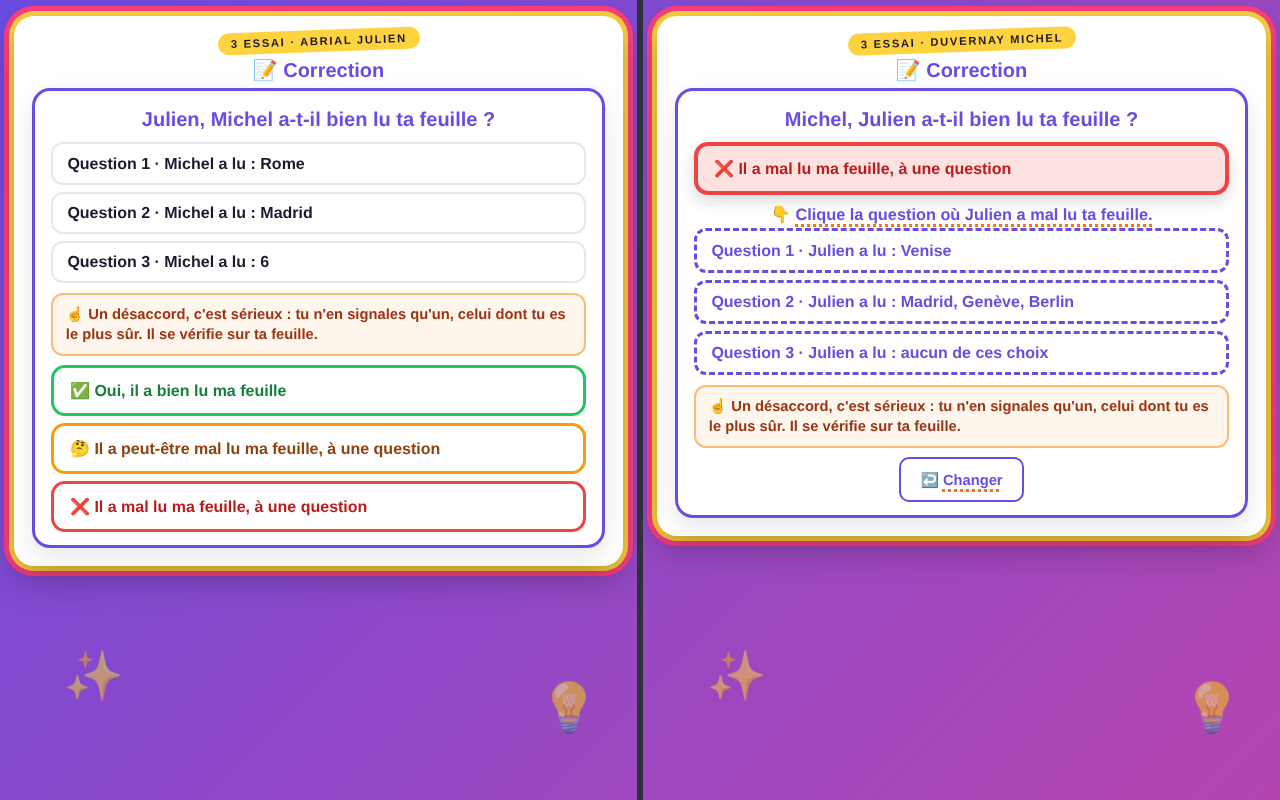
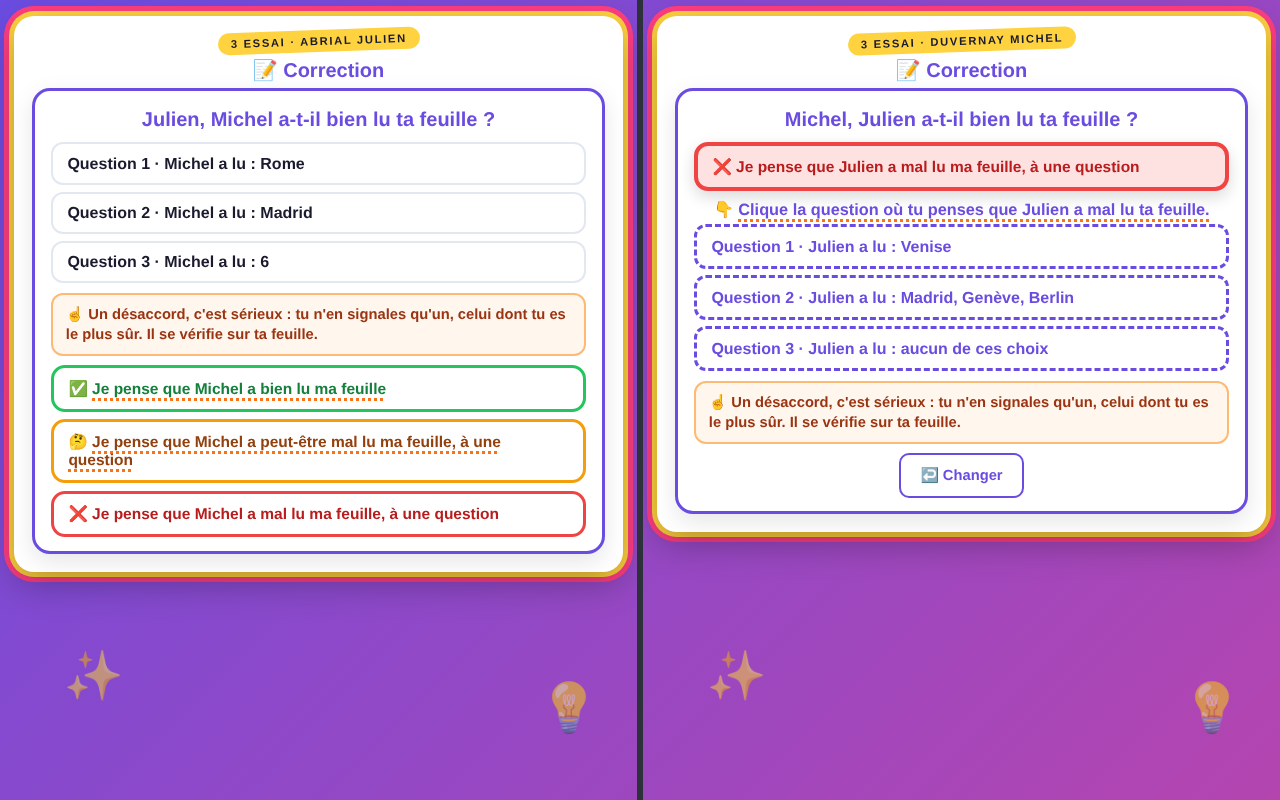
C12 tour 614 - cadrage QCM : plus de « Envoyer », co-evaluation en suppositions, alerte en faits, captures 610-6 a 610-9 (526-531)
Claude-Session: https://claude.ai/code/session_017qdZF5NLwz2zUz2W2TVAYN

Changed region(s): [[0.5, 0.1875, 1.0, 0.6875], [0.0, 0.4688, 0.5, 0.75]]

diff --git a/MANDATS/MAQUETTE-QCM-FLUX/maquette/maquette610.js b/MANDATS/MAQUETTE-QCM-FLUX/maquette/maquette610.js
@@ -101,37 +101,44 @@ function EcrAttest2AB(e, coche){
 // la feuille de Michel dit Rome, Julien a lu Venise (le clic de Michel sur la tablette, qu'il n'a jamais vu).
 var LU = {J:[[2],[0],[0]], M:[[3],[0,1,2],"aucun"]};
 function luTexte(qi, x){ var q = EV.questions[qi]; return x === "aucun" ? "aucun de ces choix" : x.map(function(i){ return q.choix[i]; }).join(", "); }
-var BTN_CO = [
-  {k:"ok", em:"✅", t:"Oui, il a bien lu ma feuille"},
-  {k:"peut", em:"🤔", t:"Il a peut-être mal lu ma feuille, à une question"},
-  {k:"mal", em:"❌", t:"Il a mal lu ma feuille, à une question"}
-];
-// etape : "choix" (rien cliqué) | "question" (❌ ou 🤔 cliqué : il clique la question) | "une" (la question cliquée : les autres ont disparu) | "envoye"
+// Tour 614 : en suppositions, à la première personne, avec le prénom du voisin ; plus de « Envoyer » :
+// le choix est enregistré dès le clic, comme partout dans l'app, et se change jusqu'au bilan.
+function txtCo(k, v, qi){
+  if(k === "ok") return "Je pense que " + v.prenom + " a bien lu ma feuille";
+  var peut = k === "peut" ? "peut-être " : "";
+  return "Je pense que " + v.prenom + " a " + peut + "mal lu ma feuille" + (qi == null ? ", à une question" : " à la question " + (qi+1));
+}
+var EM_CO = {ok:"✅", peut:"🤔", mal:"❌"};
+function BtnCo(k, v, on, qi){
+  var t = txtCo(k, v, qi);
+  return h("button", {key:k, className:"co-btn " + k + (on ? " on" : "")}, EM_CO[k] + " ", k === "mal" ? t : Pz(t));
+}
+var REGLE_CO = "Un désaccord, c'est sérieux : tu n'en signales qu'un, celui dont tu es le plus sûr. Il se vérifie sur ta feuille.";
+var ENREG = "✅ Réponse enregistrée — tu peux encore la changer";
+// etape : "choix" (rien cliqué) | "question" (❌ ou 🤔 cliqué : il clique la question) | "une" (question cliquée : les autres ont disparu) | "okfait" (✅ cliqué)
 function EcrCoeval(e, etape, k, qChoisie){
-  var v = autreDe(e), b = k && BTN_CO.filter(function(x){ return x.k === k; })[0];
+  var v = autreDe(e);
   var lignes = EV.questions.map(function(q, qi){ return {qi:qi, txt:"Question " + (qi+1) + " · " + v.prenom + " a lu : " + luTexte(qi, LU[e.cle][qi])}; });
-  if(etape === "envoye"){
-    return Page(badgeDe(e), "📝 Correction", h(F, null,
-      h("div", {className:"co-envoye " + k}, b.em + " ", Pz(k === "ok" ? "C'est envoyé : " + v.prenom + " a bien lu ta feuille." : "C'est envoyé : ton désaccord porte sur la question " + (qChoisie+1) + ".")),
-      h("div", {className:"etat-attente"}, "⏳ ", Pz("Attends ton bilan..."))));
-  }
   var zone = [];
   zone.push(h("div", {key:"t", className:"decl-titre co-titre"}, e.prenom + ", " + v.prenom + " a-t-" + il(v) + " bien lu ta feuille ?"));
   if(etape === "une"){
-    // le bouton choisi, puis la seule question, les autres ont disparu
-    zone.push(h("button", {key:"b", className:"co-btn " + k + " on"}, b.em + " " + b.t.replace("il a", il(v) + " a").replace("Il a", (il(v) === "elle" ? "Elle" : "Il") + " a")));
+    zone.push(h("div", {key:"b"}, BtnCo(k, v, true, qChoisie)));
     zone.push(h("div", {key:"l", className:"co-liste"}, h("div", {className:"co-l choisie"}, lignes[qChoisie].txt)));
-    zone.push(h("div", {key:"seule", className:"co-seule"}, "☝ ", Pz("C'est ta seule question de désaccord.")));
-    zone.push(h("div", {key:"r", className:"co-regle"}, "Un désaccord, c'est sérieux : tu n'en signales qu'un, celui dont tu es le plus sûr. Il se vérifie sur ta feuille."));
-    zone.push(h("div", {key:"a", className:"co-actions"}, h("button", {className:"btn btn-ghost"}, "↩ ", Pz("Changer")), h("button", {className:"btn btn-primary"}, "📨 ", Pz("Envoyer"))));
+    zone.push(h("div", {key:"seule", className:"co-seule"}, "☝ C'est ta seule question de désaccord."));
+    zone.push(h("div", {key:"r", className:"co-regle"}, REGLE_CO));
+    zone.push(h("div", {key:"f", className:"eleve-feedback valide"}, ENREG));
+    zone.push(h("div", {key:"a", className:"co-actions"}, h("button", {className:"btn btn-ghost"}, "↩ Changer")));
+    zone.push(h("div", {key:"w", className:"co-attente"}, "⏳ Attends ton bilan..."));
   } else {
     var cliquable = etape === "question";
-    if(cliquable) zone.push(h("button", {key:"b", className:"co-btn " + k + " on"}, b.em + " " + b.t));
-    if(cliquable) zone.push(h("div", {key:"p", className:"co-prompt"}, "👇 ", Pz("Clique la question où " + v.prenom + " a " + (k === "peut" ? "peut-être " : "") + "mal lu ta feuille.")));
+    if(cliquable) zone.push(h("div", {key:"b"}, BtnCo(k, v, true)));
+    if(cliquable) zone.push(h("div", {key:"p", className:"co-prompt"}, "👇 ", Pz("Clique la question où tu penses que " + v.prenom + " a " + (k === "peut" ? "peut-être " : "") + "mal lu ta feuille.")));
     zone.push(h("div", {key:"l", className:"co-liste" + (cliquable ? " cliquable" : "")}, lignes.map(function(l){ return h("div", {key:l.qi, className:"co-l"}, l.txt); })));
-    zone.push(h("div", {key:"r", className:"co-regle"}, "☝ Un désaccord, c'est sérieux : tu n'en signales qu'un, celui dont tu es le plus sûr. Il se vérifie sur ta feuille."));
-    if(!cliquable) zone.push(h("div", {key:"bs", className:"co-btns"}, BTN_CO.map(function(x){ return h("button", {key:x.k, className:"co-btn " + x.k}, x.em + " " + x.t); })));
-    if(cliquable) zone.push(h("div", {key:"a", className:"co-actions"}, h("button", {className:"btn btn-ghost"}, "↩ ", Pz("Changer"))));
+    zone.push(h("div", {key:"r", className:"co-regle"}, "☝ " + REGLE_CO));
+    if(!cliquable) zone.push(h("div", {key:"bs", className:"co-btns"}, ["ok", "peut", "mal"].map(function(x){ return BtnCo(x, v, etape === "okfait" && x === "ok"); })));
+    if(etape === "okfait") zone.push(h("div", {key:"f", className:"eleve-feedback valide"}, ENREG));
+    if(etape === "okfait") zone.push(h("div", {key:"w", className:"co-attente"}, "⏳ Attends ton bilan..."));
+    if(cliquable) zone.push(h("div", {key:"a", className:"co-actions"}, h("button", {className:"btn btn-ghost"}, "↩ Changer")));
   }
   return Page(badgeDe(e), "📝 Correction", h("div", {className:"eleve-q-zone"}, zone));
 }
@@ -147,22 +154,22 @@ function etatCo(p){
   return {cls:"m-coq", st:"🤔 peut-être Q" + c.slice(4), flag:"à relire ce soir"};
 }
 var LIRE_CO = [
-  ["PERRAUD Jade", "Q2 : 🤔 Enzo a peut-être mal lu sa feuille"],
-  ["MAILLARD Noah", "Q3 : 🤔 Emma a peut-être mal lu sa feuille"],
+  ["PERRAUD Jade", "Q2 : 🤔 pense qu'Enzo a peut-être mal lu sa feuille"],
+  ["MAILLARD Noah", "Q3 : 🤔 pense qu'Emma a peut-être mal lu sa feuille"],
   ["DUVERNAY Michel", "Q3 : aucun de ces choix"],
   ["QUINTON Enzo", "Q1 : aucun de ces choix"],
-  ["TESSIER Anna", "Q2 : a dit « Oui », Rayan a lu autre chose que son clic"],
-  ["CARRÉ Tom", "Q1 : n'a rien dit à la fin de son temps"]
+  ["TESSIER Anna", "Q2 : a dit que sa feuille disait son clic, Madrid ; Rayan y a lu Madrid et Genève"],
+  ["CARRÉ Tom", "Q1 : n'a pas dit si sa feuille disait son clic"]
 ];
 var ATT_CO = ["CARRÉ Tom", "OLLIVIER Sacha", "VALLÉE Rayan", "ZELLER Lou"];
 function AlerteCo(tel){
   var q = EV.questions[0];
   var corps = [
-    h("div", {key:"t", className:"al-t"}, "❌ DUVERNAY Michel : ABRIAL Julien a mal lu sa feuille à la question 1"),
+    h("div", {key:"t", className:"al-t"}, "❌ DUVERNAY Michel pense qu'ABRIAL Julien a mal lu sa feuille à la question 1"),
     h("div", {key:"q", className:"al-l"}, "Q1 · " + q.enonce + " — bonne réponse : Rome"),
-    h("div", {key:"b", className:"al-l"}, "Pendant la question, Michel a cliqué ", h("strong", null, "Venise"), " et a dit « Non, autre chose »."),
-    h("div", {key:"a", className:"al-l"}, "À la correction, Julien a lu sur sa feuille : ", h("strong", null, "Venise"), "."),
-    h("div", {key:"x", className:"al-l al-b"}, "⚠ Ça ne colle pas : Michel avait dit que sa feuille ne disait pas son clic."),
+    h("div", {key:"b", className:"al-l"}, "Pendant la question, Michel a cliqué ", h("strong", null, "Venise"), ", puis il a dit que sa feuille ne disait pas Venise."),
+    h("div", {key:"a", className:"al-l"}, "À la correction, Julien a lu ", h("strong", null, "Venise"), " sur la feuille de Michel."),
+    h("div", {key:"x", className:"al-l al-b"}, "⚠ Les deux ne peuvent pas être vrais : la feuille de Michel tranche."),
     h("div", {key:"c", className:"al-l al-c"}, "Appelle-les à la fin de l'heure, la feuille de Michel en main.")
   ];
   if(tel) return h("div", {className:"tel-alerte"}, corps,
@@ -176,26 +183,26 @@ function AlerteCo(tel){
       h("div", {className:"al-auto"},
         h("button", {className:"btn btn-ghost btn-sm"}, "⛔ Retirer le point d'autonomie — Michel"),
         h("button", {className:"btn btn-ghost btn-sm"}, "⛔ Retirer le point d'autonomie — Julien")),
-      h("div", {className:"al-note"}, "« Donner raison à Michel » : tu cliques ce que dit sa feuille, comme le soir (capture 43), et sa note se recalcule. « Donner raison à Julien » : rien ne change.")));
+      h("div", {className:"al-note"}, "L'alerte est apparue au clic de Michel ; elle disparaît s'il change d'avis avant le bilan. « Donner raison à Michel » : tu cliques ce que dit sa feuille, comme le soir (capture 43), et sa note se recalcule. « Donner raison à Julien » : rien ne change.")));
 }
 function PilotCoeval(){
   return Console("pilotage", "pilot", h("div", {className:"card"},
     AlerteCo(false),
     TitreCarte(h(F, null, "🤝 Co-évaluation de la lecture — " + EV.titre + " — " + CLASSE, InfoI()),
       [h("button", {key:0, className:"btn btn-ghost btn-sm"}, "🚫 Départ d'un élève"), h("button", {key:1, className:"btn btn-rouge btn-sm"}, "🛑 Terminer la session")]),
-    h("div", {className:"pilot-status correction"}, "Fin de la correction — chacun dit si son voisin a bien lu sa feuille · 20 / 24 ont répondu"),
+    h("div", {className:"pilot-status correction"}, "Fin de la correction — chacun dit ce qu'il pense de la lecture de sa feuille · 20 / 24 ont répondu"),
     h("div", {className:"corr-grid"},
       h("div", null,
         h("div", {className:"row", style:{marginTop:".2rem"}}, h("button", {className:"btn btn-or ferme", disabled:true}, "🔒 🏁 Afficher leur bilan aux élèves")),
         h("div", {className:"manquent"},
           h("div", {className:"tt"}, "« 🏁 Afficher leur bilan aux élèves » s'ouvre quand les 24 présents ont répondu. Il en manque " + ATT_CO.length + " :"),
           h("div", {className:"noms"}, ATT_CO.join(" · "))),
-        h("div", {className:"co-compte"}, h("div", null, "✅ ", h("strong", null, String(Object.keys(CO).filter(function(p){ return CO[p] === "ok"; }).length)), " ont dit : bien lu"), h("div", null, "🤔 ", h("strong", null, "2"), " ont dit : peut-être mal lu (à relire ce soir)"), h("div", null, "❌ ", h("strong", null, "1"), " a dit : mal lu (alerte, en haut)")),
+        h("div", {className:"co-compte"}, h("div", null, "✅ ", h("strong", null, String(Object.keys(CO).filter(function(p){ return CO[p] === "ok"; }).length)), " pensent : bien lu"), h("div", null, "🤔 ", h("strong", null, "2"), " pensent : peut-être mal lu (à relire ce soir)"), h("div", null, "❌ ", h("strong", null, "1"), " pense : mal lu (alerte, en haut)")),
         h("div", {className:"alire"}, h("div", {className:"tt"}, "📌 À lire sur les feuilles, ce soir (" + LIRE_CO.length + ")"),
           LIRE_CO.map(function(x, i){ return h("div", {key:i}, x[0] + " — " + x[1]); }))),
       h("div", {className:"suivi-box"},
-        h("h3", null, "🤝 Ce que chacun dit de la lecture de sa feuille", InfoI()),
-        h("div", {className:"ss"}, "Chaque moitié dit si le voisin a bien lu la feuille de cet élève."),
+        h("h3", null, "🤝 Ce que chacun pense de la lecture de sa feuille", InfoI()),
+        h("div", {className:"ss"}, "Chaque moitié dit ce que cet élève pense de la lecture de sa feuille par son voisin."),
         GrilleTablettes(PAIRES, etatCo),
         Legende([["#22C55E","✅ bien lu"],["#FDE68A","🤔 peut-être mal lu : à relire ce soir"],["#EF4444","❌ mal lu : alerte"],["#FEE2E2","⏳ pas encore répondu","1px solid #EF4444"]])))), true);
 }
@@ -216,7 +223,7 @@ function TelCoeval(){
     h("div", {key:"a", className:"tel-actions"}, TelBtn("🔒 🏁 Afficher leur bilan — il en manque 4", "or", "large", true)),
     h("div", {key:"m", className:"tel-manquent"}, h("strong", null, "Pas encore répondu : "), ATT_CO.join(" · ")),
     h("div", {key:"lr", className:"tel-lire"}, h("strong", null, "📌 À lire ce soir (" + LIRE_CO.length + ") : "), LIRE_CO.map(function(x){ return x[0] + " — " + x[1]; }).join(" · ")),
-    h("div", {key:"l", className:"tel-liste"}, h("div", {className:"tel-liste-h"}, "TABLETTES — ce que chacun dit de la lecture de sa feuille"), lignes),
+    h("div", {key:"l", className:"tel-liste"}, h("div", {className:"tel-liste-h"}, "TABLETTES — ce que chacun pense de la lecture de sa feuille"), lignes),
     h("div", {key:"lg"}, TelLegende(["✅ bien lu", "🤔 peut-être mal lu : ce soir", "❌ mal lu : alerte", "⏳ pas encore"])),
     h("div", {key:"t"}, TelBtn("🛑 Terminer la session", "rouge", "small"))]);
 }
@@ -233,9 +240,9 @@ var SCENES_610 = [
   {id:"x610-5-attestation-2", vue:"tablette", render:function(){ return Tablette(EcrAttest2AB(J, true), EcrAttest2AB(M, false)); }},
   // La co-évaluation : Julien n'a encore rien cliqué ; Michel a cliqué « ❌ » et doit cliquer la question
   {id:"x610-6-coeval-choix", vue:"tablette", render:function(){ return Tablette(EcrCoeval(J, "choix"), EcrCoeval(M, "question", "mal")); }},
-  // Julien a envoyé « ✅ » ; Michel a cliqué la question 1 : les autres ont disparu
-  {id:"x610-7-coeval-une", vue:"tablette", render:function(){ return Tablette(EcrCoeval(J, "envoye", "ok"), EcrCoeval(M, "une", "mal", 0)); }},
-  // Ta console et ton téléphone, à l'instant où Michel envoie
+  // Julien a cliqué « ✅ » ; Michel a cliqué la question 1 : les autres ont disparu ; les deux choix sont enregistrés, et se changent jusqu'au bilan
+  {id:"x610-7-coeval-une", vue:"tablette", render:function(){ return Tablette(EcrCoeval(J, "okfait", "ok"), EcrCoeval(M, "une", "mal", 0)); }},
+  // Ta console et ton téléphone, à l'instant où Michel clique la question 1
   {id:"x610-8-console-alerte", vue:"console", render:PilotCoeval},
   {id:"x610-9-telephone-alerte", vue:"telephone", render:TelCoeval}
 ];

diff --git a/MANDATS/MAQUETTE-QCM-FLUX/maquette/maquette610.css b/MANDATS/MAQUETTE-QCM-FLUX/maquette/maquette610.css
@@ -53,3 +53,5 @@
 .tp-mal{background:#fff;color:#B91C1C!important;border:1px solid #EF4444}
 .moitie .soin + .eleve-chrono{margin-top:.25rem}
 .moitie .montre ~ .decl-consigne{margin-bottom:.1rem}
+.co-attente{text-align:center;font-weight:900;color:var(--violet);font-size:1.05rem;margin-top:.5rem}
+.moitie .co-btn{padding:.7rem .9rem;font-size:.97rem}

diff --git a/MANDATS/CADRAGE-QCM.md b/MANDATS/CADRAGE-QCM.md
@@ -3,7 +3,7 @@
 
 **Ce que ça change pour la classe** : deux élèves par tablette, qui répondent l'un après l'autre sans voir la réponse de l'autre ; des temps de réflexion et de réponse réglés question par question ; une séance (questions + correction) qui tient dans 45 minutes ; la console de Paul, qui pilote la séance, lisible d'abord.
 
-**Méthode depuis le tour 563 (Paul) : on séquence, un sujet à la fois, en réponses courtes.** **État au 08/10, 18:10 (tour 593, après la secousse — https://github.com/siteflow-io/mjpc-chantier/blob/main/MANDATS/CADRAGE-QCM-SECOUSSE.md).** Règle de note (288 à 293) : la note, c'est la feuille ; une question vaut au plus 1 point (strict : tout ou rien ; partiel : une fraction du point par bonne case, autant de retiré par mauvaise, plancher 0) ; une fois par évaluation, une question dont la feuille est fausse et la tablette entièrement juste compte comme juste et se marque « Trouvée au dernier moment » avec un + vert (282, 303) ; sans saisie, pas de note ; aucune note visible avant la saisie (223). Niveaux : « difficulté » pour les questions, « maîtrise » pour École Directe (304) ; la maîtrise se calcule par compétence, une ou deux compétences par question, prises dans celles du chapitre (305 à 315). Méthode de livraison (Paul, 578) : une exécutante code tout d'un coup, audit final, push de Paul après la livraison complète. À trancher : 323 à 340 et 341 — une proposition pour chacun au tour 594, en attente du mot de Paul ; préalables : 73, 148. Tour 598 : la maquette du flux binôme, 44 captures dans l'ordre de la séance (https://github.com/siteflow-io/mjpc-chantier/blob/main/MANDATS/MAQUETTE-QCM-FLUX/README.md) ; elle montre comme retenus 360, 334, 313, 339, 327, 331, 323, 64 et 332, encore à trancher, et les textes provisoires y sont soulignés en orange. Tour 600 (Paul : « Ok ») : 375 à 384 retenus (« clique » partout dans les textes de l'élève ; consigne de saisie sans négation, qui dit le rapprochement ; saisie forcée par un chrono vert, orange, rouge et « Révéler » fermé tant qu'un présent n'a pas cliqué ; « Départ d'un élève » visible pendant la correction (388) ; tu commentes après la révélation ; compétences fines jusqu'au PDF) ; maquette refaite ; proposé 390 (au moins trois questions par compétence). Tour 601 (Paul) : « recopie » remplace « saisie » pour le geste où l'élève reporte sa feuille sur la tablette (392) ; les points à trancher sont redonnés en entier au tour 601. Tour 602 (Paul : « Ok tout est bon je pense ») : retenus, 323 à 340, 349, 351, 353, 360, 362, 390, 64, 97 et 142, 115, 120, 121, 165, 234, 313, 317, les textes 393 à 397, et les captures de console (73) ; proposés, les textes 398 à 400 (402). Inventaire « tout visible » (148) fait : https://github.com/siteflow-io/mjpc-chantier/blob/main/MANDATS/INVENTAIRE-QCM-TOUT-VISIBLE.md (95 fonctions ; dettes 205 à 209) ; à trancher : 407 et 409 à 413 ; avant le mandat, 14 écrans à capturer (414), puis le PDF (318) et le prompt (62, 123). Tour 603 (Paul : « ok pour toutes tes propositions ») : retenus, 409 à 413 et les textes 398 à 400 (402) ; le QR et l'accès par le téléphone restent tels quels (dette 208 close) ; le téléphone est la télécommande de Paul, avec toutes les infos pour piloter (417, 418, à valider sur les captures) ; mesuré : en 7.7.1, le téléphone devient un écran vide dès qu'un élève répond (dette 210). Maquette complétée : 66 captures (45 à 66 : les écrans hors du flux et le téléphone) ; propositions nouvelles : 422 (tableau pendant la recopie, rattrapage en placement libre, corbeille visible dans Sauvegarde). Suite : le PDF (318), le prompt (62, 123), le mandat. Tour 604 (Paul, relecture jusqu'à la capture 35, « ne considère pas que c'est terminé ») : demandés, les temps modifiables en direct, avec les boutons rapides, et un bouton par question pour l'écarter du déroulé (la question bonus comme fusible) ; « Pose ton stylo, Julien. Tu es prêt ? À toi dans 3 secondes », l'élève toujours nommé, un stylo et non un livre ; un point d'autonomie (« Être autonome et responsable », « S'impliquer dans les activités en classe et dans son travail personnel »), retiré en direct ou le soir, expliqué avant la correction ; « Trouvée au dernier moment » moins vert, ⛔ dans la console. Propositions 427 à 439, à valider ; question 430 ; tension 432 (« qu'il / qu'elle ») ; 165 remplacé (437). Maquette à refaire après la fin de la relecture. Tour 605 (Paul : « ce que je ne commente pas est acquis ») : retenus 427, 428, 431, 433, 436 et 439 ; « ❌ Écarter » avec garde et retour (441) ; annuler une question déjà posée, marquée autrement qu'une question écartée (442) ; 432 était faux : le sexe est déclaré dans MJPC pour tous les élèves, la phrase de Paul reste (443) ; proposés : l'estimation avec la phrase de Paul (444), la phrase du rapprochement (445), « 🔴 Autonomie non atteinte » (446), la seconde attestation (447) ; « compétence non atteinte », jamais « sanction ». Tour 606 (Paul) : console et téléphone, « ⛔ Retirer le point d'autonomie » et « ↩ Rendre » (436 gardé, 446 abandonné) ; côté élève, « compétences atteintes / non atteintes » ; la seconde attestation de 447 est la bonne, un peu plus ferme (451) ; proposée, la phrase de 435 plus ferme (450). Tour 607 (Paul, relecture jusqu'à la capture 65) : demandés, un autre signe que « + » (453), « Afficher leur bilan aux élèves » (455), une note qui dit la relecture et les écarts, tous les cas (456 à 462), une garde de longueur et le défilement de worktrack en dernier recours (464), les listes rangées comme dans la dictée, avec un tri (465), « Copier pour l'IA » (466), le flux papier seul (467), la reprise d'une séance à une autre heure, toute séance réouvrable (469), un mode test sans faux (470), publier et rendre les copies comme dans la dictée (471). Tour 608 (Paul : « le reste ok ») : acquis 454, 455, 457, 458, 462 à 465, 467, 469 à 472 ; la phrase de Paul ajoutée au bilan (474) ; « Copier les erreurs pour l'instance de création d'éval » (481) ; le cas 459 se présente encore (475) ; à trancher : le signe (473, quatre propositions), « aucun de ces choix » (476 ou 477), 468 (482) ; proposés : le prompt, la règle d'écriture et la phrase d'autonomie (478 à 480). Tour 609 : retenus le ✓ orange (484), la motivation de Paul dans la seconde attestation (485), « aucun de ces choix » vaut toujours 0, sans « Trouvée au dernier moment » (477, 490), le flux papier seul par « ▶ Reprendre » (491) ; griser le clic ne marche pas (486) ; à trancher : A ou B contre le réflexe du clic (487 à 489), ce que fait l'élève à la correction papier (492). Tour 610 (Paul : « ok pour tout ») : acquis 484 à 493 ; sur papier, l'élève corrige sa propre feuille (494) ; contre le réflexe, A et B ensemble : B à la fin du temps de réponse, 5 secondes (495), A dans la moitié du propriétaire (496), B ne bloque plus et marque « ⚠ À relire » (497), « Je ne suis pas sûr » (498), les deux attestations refaites (499) ; à trancher : les captures 610-1 à 610-5 et l'élève seul (500). Tour 611 (Paul : attestation trop compliquée, « Je ne suis pas sûr » sera le refuge de l'élève inquiet ; « discutons avant de refaire les captures ») : proposés, retirer « Je ne suis pas sûr » (502 à 504), une méthode d'écriture et deux attestations deux fois plus courtes (505 à 507), 450 réduit (508) ; captures 610 à refaire après accord. Tour 612 (Paul : la phrase sur la note ne concerne plus l'élève ; un écran de co-évaluation de la lecture, un seul désaccord, alerte immédiate, Paul tranche pour l'un, pour l'autre, ou relit le soir) : proposés, la phrase remplacée (510), l'écran (511 à 513), le bandeau de la console (515), « peut-être » sans alerte (516), le déroulé (517). Tour 613 (Paul : « ok pour tout », une question cliquée et les autres disparaissent, l'écran dit qu'il n'y a qu'une question de désaccord ; « Captures. ») : acquis 502 à 518 ; neuf captures 610 refaites (520, 521) ; à valider : les textes nouveaux soulignés (522), la liste sans juste ou faux (523). Reste : les réponses de Paul, puis la maquette refaite. L'ancienne ligne d'état est archivée en fin de document.
+**Méthode depuis le tour 563 (Paul) : on séquence, un sujet à la fois, en réponses courtes.** **État au 08/10, 18:10 (tour 593, après la secousse — https://github.com/siteflow-io/mjpc-chantier/blob/main/MANDATS/CADRAGE-QCM-SECOUSSE.md).** Règle de note (288 à 293) : la note, c'est la feuille ; une question vaut au plus 1 point (strict : tout ou rien ; partiel : une fraction du point par bonne case, autant de retiré par mauvaise, plancher 0) ; une fois par évaluation, une question dont la feuille est fausse et la tablette entièrement juste compte comme juste et se marque « Trouvée au dernier moment » avec un + vert (282, 303) ; sans saisie, pas de note ; aucune note visible avant la saisie (223). Niveaux : « difficulté » pour les questions, « maîtrise » pour École Directe (304) ; la maîtrise se calcule par compétence, une ou deux compétences par question, prises dans celles du chapitre (305 à 315). Méthode de livraison (Paul, 578) : une exécutante code tout d'un coup, audit final, push de Paul après la livraison complète. À trancher : 323 à 340 et 341 — une proposition pour chacun au tour 594, en attente du mot de Paul ; préalables : 73, 148. Tour 598 : la maquette du flux binôme, 44 captures dans l'ordre de la séance (https://github.com/siteflow-io/mjpc-chantier/blob/main/MANDATS/MAQUETTE-QCM-FLUX/README.md) ; elle montre comme retenus 360, 334, 313, 339, 327, 331, 323, 64 et 332, encore à trancher, et les textes provisoires y sont soulignés en orange. Tour 600 (Paul : « Ok ») : 375 à 384 retenus (« clique » partout dans les textes de l'élève ; consigne de saisie sans négation, qui dit le rapprochement ; saisie forcée par un chrono vert, orange, rouge et « Révéler » fermé tant qu'un présent n'a pas cliqué ; « Départ d'un élève » visible pendant la correction (388) ; tu commentes après la révélation ; compétences fines jusqu'au PDF) ; maquette refaite ; proposé 390 (au moins trois questions par compétence). Tour 601 (Paul) : « recopie » remplace « saisie » pour le geste où l'élève reporte sa feuille sur la tablette (392) ; les points à trancher sont redonnés en entier au tour 601. Tour 602 (Paul : « Ok tout est bon je pense ») : retenus, 323 à 340, 349, 351, 353, 360, 362, 390, 64, 97 et 142, 115, 120, 121, 165, 234, 313, 317, les textes 393 à 397, et les captures de console (73) ; proposés, les textes 398 à 400 (402). Inventaire « tout visible » (148) fait : https://github.com/siteflow-io/mjpc-chantier/blob/main/MANDATS/INVENTAIRE-QCM-TOUT-VISIBLE.md (95 fonctions ; dettes 205 à 209) ; à trancher : 407 et 409 à 413 ; avant le mandat, 14 écrans à capturer (414), puis le PDF (318) et le prompt (62, 123). Tour 603 (Paul : « ok pour toutes tes propositions ») : retenus, 409 à 413 et les textes 398 à 400 (402) ; le QR et l'accès par le téléphone restent tels quels (dette 208 close) ; le téléphone est la télécommande de Paul, avec toutes les infos pour piloter (417, 418, à valider sur les captures) ; mesuré : en 7.7.1, le téléphone devient un écran vide dès qu'un élève répond (dette 210). Maquette complétée : 66 captures (45 à 66 : les écrans hors du flux et le téléphone) ; propositions nouvelles : 422 (tableau pendant la recopie, rattrapage en placement libre, corbeille visible dans Sauvegarde). Suite : le PDF (318), le prompt (62, 123), le mandat. Tour 604 (Paul, relecture jusqu'à la capture 35, « ne considère pas que c'est terminé ») : demandés, les temps modifiables en direct, avec les boutons rapides, et un bouton par question pour l'écarter du déroulé (la question bonus comme fusible) ; « Pose ton stylo, Julien. Tu es prêt ? À toi dans 3 secondes », l'élève toujours nommé, un stylo et non un livre ; un point d'autonomie (« Être autonome et responsable », « S'impliquer dans les activités en classe et dans son travail personnel »), retiré en direct ou le soir, expliqué avant la correction ; « Trouvée au dernier moment » moins vert, ⛔ dans la console. Propositions 427 à 439, à valider ; question 430 ; tension 432 (« qu'il / qu'elle ») ; 165 remplacé (437). Maquette à refaire après la fin de la relecture. Tour 605 (Paul : « ce que je ne commente pas est acquis ») : retenus 427, 428, 431, 433, 436 et 439 ; « ❌ Écarter » avec garde et retour (441) ; annuler une question déjà posée, marquée autrement qu'une question écartée (442) ; 432 était faux : le sexe est déclaré dans MJPC pour tous les élèves, la phrase de Paul reste (443) ; proposés : l'estimation avec la phrase de Paul (444), la phrase du rapprochement (445), « 🔴 Autonomie non atteinte » (446), la seconde attestation (447) ; « compétence non atteinte », jamais « sanction ». Tour 606 (Paul) : console et téléphone, « ⛔ Retirer le point d'autonomie » et « ↩ Rendre » (436 gardé, 446 abandonné) ; côté élève, « compétences atteintes / non atteintes » ; la seconde attestation de 447 est la bonne, un peu plus ferme (451) ; proposée, la phrase de 435 plus ferme (450). Tour 607 (Paul, relecture jusqu'à la capture 65) : demandés, un autre signe que « + » (453), « Afficher leur bilan aux élèves » (455), une note qui dit la relecture et les écarts, tous les cas (456 à 462), une garde de longueur et le défilement de worktrack en dernier recours (464), les listes rangées comme dans la dictée, avec un tri (465), « Copier pour l'IA » (466), le flux papier seul (467), la reprise d'une séance à une autre heure, toute séance réouvrable (469), un mode test sans faux (470), publier et rendre les copies comme dans la dictée (471). Tour 608 (Paul : « le reste ok ») : acquis 454, 455, 457, 458, 462 à 465, 467, 469 à 472 ; la phrase de Paul ajoutée au bilan (474) ; « Copier les erreurs pour l'instance de création d'éval » (481) ; le cas 459 se présente encore (475) ; à trancher : le signe (473, quatre propositions), « aucun de ces choix » (476 ou 477), 468 (482) ; proposés : le prompt, la règle d'écriture et la phrase d'autonomie (478 à 480). Tour 609 : retenus le ✓ orange (484), la motivation de Paul dans la seconde attestation (485), « aucun de ces choix » vaut toujours 0, sans « Trouvée au dernier moment » (477, 490), le flux papier seul par « ▶ Reprendre » (491) ; griser le clic ne marche pas (486) ; à trancher : A ou B contre le réflexe du clic (487 à 489), ce que fait l'élève à la correction papier (492). Tour 610 (Paul : « ok pour tout ») : acquis 484 à 493 ; sur papier, l'élève corrige sa propre feuille (494) ; contre le réflexe, A et B ensemble : B à la fin du temps de réponse, 5 secondes (495), A dans la moitié du propriétaire (496), B ne bloque plus et marque « ⚠ À relire » (497), « Je ne suis pas sûr » (498), les deux attestations refaites (499) ; à trancher : les captures 610-1 à 610-5 et l'élève seul (500). Tour 611 (Paul : attestation trop compliquée, « Je ne suis pas sûr » sera le refuge de l'élève inquiet ; « discutons avant de refaire les captures ») : proposés, retirer « Je ne suis pas sûr » (502 à 504), une méthode d'écriture et deux attestations deux fois plus courtes (505 à 507), 450 réduit (508) ; captures 610 à refaire après accord. Tour 612 (Paul : la phrase sur la note ne concerne plus l'élève ; un écran de co-évaluation de la lecture, un seul désaccord, alerte immédiate, Paul tranche pour l'un, pour l'autre, ou relit le soir) : proposés, la phrase remplacée (510), l'écran (511 à 513), le bandeau de la console (515), « peut-être » sans alerte (516), le déroulé (517). Tour 613 (Paul : « ok pour tout », une question cliquée et les autres disparaissent, l'écran dit qu'il n'y a qu'une question de désaccord ; « Captures. ») : acquis 502 à 518 ; neuf captures 610 refaites (520, 521) ; à valider : les textes nouveaux soulignés (522), la liste sans juste ou faux (523). Tour 614 (Paul : « Envoyer ne veut rien dire », formuler en suppositions, la ligne du ⚠ incompréhensible) : « Envoyer » retiré, choix enregistré au clic (526), suppositions à la première personne (527, 528), alerte et liste du soir en faits (529, 530), captures 610-6 à 610-9 refaites. Reste : les réponses de Paul, puis la maquette refaite. L'ancienne ligne d'état est archivée en fin de document.
 
 **Points remplacés — à ne pas coder (passe de propreté, tour 593)** :
 la ligne d'état de 14:31 → 288 à 293 et 282 · 173 et 181 (« aucun des choix » vaut 0) → 176, 290 · 237 (« 1 point fixe », sur chaque question concernée) → 275, 290, et 332 à trancher · 19 (binômes après l'appel) → 109 · le découpage en lots (45 à 50, « lot 2 » de la dette 181, « après le lot 1 » de 67 et de la dette 186) → Paul, 578 · 40 (le score app pondéré) → 273, et 323 à trancher · ce que 35, 36, 56 et 61 disent des points des niveaux → 273, 295 · l'exemple chiffré de 169 → 1 point par question · le motif de 234 (l'encadré du tout ou rien redevient juste avec 273 ; c'est celui du partiel qui est faux) · les mesures 105, 106 et 113, fausses → corrigées en 320.
@@ -1924,6 +1924,24 @@ Dis-moi ce qui ne va pas sur les captures et en 500 ; puis je refais la maquette
 524. **Pour la scène, Julien a lu « Venise » à la question 1 de Michel** : c'est le clic de Michel, que Julien n'a jamais vu. Ta console le relève : « ⚠ Ça ne colle pas : Michel avait dit que sa feuille ne disait pas son clic. »
 
 525. **Tout est au sas**, captures et explications : https://github.com/siteflow-io/mjpc-chantier/blob/main/MANDATS/MAQUETTE-QCM-FLUX/README.md (section « Tours 610 à 613 »). Quand ces neuf captures te vont, je refais la maquette entière en une fois.
+
+## Tour 614 — Paul (09/10, 16:05), mot pour mot
+
+> Envoyer ne veut rien dire. Je suis dans la salle avec eux. Par ailleurs il faut formuler en suppositions " je pense que Julien a mal lu ma feuille à la question tant ". Enfin, ma console quand j'ai les alertes.. ta formulation qui suit le ⚠ est incompréhensible.
+
+## Tour 614 — plus de « Envoyer », la co-évaluation en suppositions, l'alerte en faits (points 526 à 531)
+
+526. **« Envoyer » est retiré.** Le choix est enregistré dès le clic, comme partout dans l'app : « ✅ Réponse enregistrée — tu peux encore la changer », jusqu'à « 🏁 Afficher leur bilan aux élèves ». L'alerte apparaît sur ta console dès que Michel clique la question, et disparaît s'il change d'avis. « C'est envoyé » disparaît aussi. Captures 610-6 et 610-7.
+
+527. **En suppositions, à la première personne, avec le prénom** : « ✅ Je pense que Julien a bien lu ma feuille », « 🤔 Je pense que Julien a peut-être mal lu ma feuille, à une question », « ❌ Je pense que Julien a mal lu ma feuille, à une question ». Une fois la question cliquée, c'est ta phrase : « ❌ Je pense que Julien a mal lu ma feuille à la question 1 ». La consigne suit : « 👇 Clique la question où tu penses que Julien a mal lu ta feuille. » Est souligné ce qui n'est pas mot pour mot de toi.
+
+528. **Ta console parle de même** : « ❌ DUVERNAY Michel pense qu'ABRIAL Julien a mal lu sa feuille à la question 1 », et ton suivi devient « Ce que chacun pense de la lecture de sa feuille ».
+
+529. **La ligne du ⚠, réécrite en faits, dans l'ordre où ils sont arrivés** : « Pendant la question, Michel a cliqué Venise, puis il a dit que sa feuille ne disait pas Venise. » ; « À la correction, Julien a lu Venise sur la feuille de Michel. » ; « ⚠ Les deux ne peuvent pas être vrais : la feuille de Michel tranche. » Cette ligne n'apparaît que quand les deux se contredisent. Capture 610-8, et 610-9 sur ton téléphone.
+
+530. **La liste du soir avait le même défaut, corrigé de même** : « TESSIER Anna — Q2 : a dit que sa feuille disait son clic, Madrid ; Rayan y a lu Madrid et Genève » ; « CARRÉ Tom — Q1 : n'a pas dit si sa feuille disait son clic ».
+
+531. **Les quatre captures refaites sont au sas** : https://github.com/siteflow-io/mjpc-chantier/blob/main/MANDATS/MAQUETTE-QCM-FLUX/README.md (section « Tours 610 à 614 »). Quand elles te vont, je refais la maquette entière en une fois.
 
 ---
 

diff --git a/MANDATS/MAQUETTE-QCM-FLUX/README.md b/MANDATS/MAQUETTE-QCM-FLUX/README.md
@@ -352,9 +352,9 @@ La maquette est dans `maquette/` : `maquette.html` s'ouvre dans un navigateur (`
 
 ---
 
-## Tours 610 à 613 — « ceinture et bretelles » contre le réflexe du clic, puis la co-évaluation de la lecture (points 494 à 525)
+## Tours 610 à 614 — « ceinture et bretelles » contre le réflexe du clic, puis la co-évaluation de la lecture (points 494 à 531)
 
-Demandes de Paul : au tour 610 (09/10, 13:45), « B, mais à quel moment précisément ? Et je veux voir la capture que ça donnerait. Et A en plus » ; au tour 613 (14:18), « Captures. », après ses réponses des tours 611 à 613. Neuf captures à part, dans `captures-610/`, sur la même maquette (`maquette/maquette610.js` et `maquette610.css`, assemblés par `build610.py`, pris par `capture610.js`). Les textes que Paul a validés ne sont plus soulignés ; seuls les textes nouveaux vus par l'élève, proposés au tour 613, sont soulignés en pointillés orange. La maquette entière sera refaite en une fois après les réponses de Paul.
+Demandes de Paul : au tour 610 (09/10, 13:45), « B, mais à quel moment précisément ? Et je veux voir la capture que ça donnerait. Et A en plus » ; au tour 613 (14:18), « Captures. », après ses réponses des tours 611 à 613 ; au tour 614 (16:05), « Envoyer ne veut rien dire », les suppositions, et la ligne du ⚠ « incompréhensible » : captures 610-6 à 610-9 refaites. Neuf captures à part, dans `captures-610/`, sur la même maquette (`maquette/maquette610.js` et `maquette610.css`, assemblés par `build610.py`, pris par `capture610.js`). Les textes que Paul a validés ne sont plus soulignés ; seuls les textes vus par l'élève qui ne sont pas mot pour mot de Paul sont soulignés en pointillés orange. La maquette entière sera refaite en une fois après les réponses de Paul.
 
 **Capture 610-1 — Tablette.** B, premier tour de la question 1 : le temps de Julien est fini, son clic (Rome) est figé ; il dit si sa feuille dit la même chose, en 5 secondes. Michel reste sous le voile (495).
 
@@ -376,15 +376,15 @@ Demandes de Paul : au tour 610 (09/10, 13:45), « B, mais à quel moment précis
 
 ![Capture 610-5](captures-610/610-5-attestation-2.png)
 
-**Capture 610-6 — Tablette.** La co-évaluation de la lecture (511 à 513). À gauche, Julien n'a encore rien cliqué. À droite, Michel a cliqué « ❌ » : il doit cliquer la question. La liste ne dit pas si chaque question était juste (523).
+**Capture 610-6 — Tablette.** La co-évaluation de la lecture (511 à 513), en suppositions (527). À gauche, Julien n'a encore rien cliqué. À droite, Michel a cliqué « ❌ Je pense que Julien a mal lu ma feuille, à une question » : il doit cliquer la question. La liste ne dit pas si chaque question était juste (523).
 
 ![Capture 610-6](captures-610/610-6-coeval-choix.png)
 
-**Capture 610-7 — Tablette.** À gauche, Julien a envoyé « ✅ ». À droite, Michel a cliqué la question 1 : les deux autres ont disparu (précision de Paul, tour 613) ; l'alerte ne part qu'à « Envoyer » (522).
+**Capture 610-7 — Tablette.** À gauche, Julien a cliqué « ✅ ». À droite, Michel a cliqué la question 1 : les deux autres ont disparu (précision de Paul, tour 613), et sa phrase est complète. Plus de « Envoyer » : le choix est enregistré dès le clic et se change jusqu'au bilan (526).
 
 ![Capture 610-7](captures-610/610-7-coeval-une.png)
 
-**Capture 610-8 — Console.** À l'instant où Michel envoie : l'alerte en haut, avec ce que Michel avait cliqué et dit, ce que Julien a lu, et les trois arbitrages de Paul (515) ; « 🏁 Afficher leur bilan aux élèves » attend les 4 derniers (517) ; la liste du soir.
+**Capture 610-8 — Console.** À l'instant où Michel clique la question 1 : l'alerte en haut, en faits et dans l'ordre (529), avec les trois arbitrages de Paul (515) ; « 🏁 Afficher leur bilan aux élèves » attend les 4 derniers (517) ; la liste du soir, réécrite de même (530).
 
 ![Capture 610-8](captures-610/610-8-console-alerte.png)
 

diff --git a/TRANSCRIPTS/C12/TRANSCRIPT-C12.md b/TRANSCRIPTS/C12/TRANSCRIPT-C12.md
@@ -18793,3 +18793,33 @@ Réponse mot pour mot, avec les neuf captures envoyées dans la conversation :
 525. **Tout est au sas**, captures et explications : https://github.com/siteflow-io/mjpc-chantier/blob/main/MANDATS/MAQUETTE-QCM-FLUX/README.md (section « Tours 610 à 613 »). Quand ces neuf captures te vont, je refais la maquette entière en une fois.
 
 09/10/2026 14:24 MEMO
+
+---
+
+## TOUR 614 — Paul
+
+Texte de Paul, mot pour mot :
+
+> (09/10, 16:05) Envoyer ne veut rien dire. Je suis dans la salle avec eux. Par ailleurs il faut formuler en suppositions " je pense que Julien a mal lu ma feuille à la question tant ". Enfin, ma console quand j'ai les alertes.. ta formulation qui suit le ⚠ est incompréhensible.
+
+---
+
+## TOUR 614 — Claude (conscience n°12)
+
+Captures 610-6 à 610-9 refaites (scratchpad maquette/maquette610.js et maquette610.css ; la version du tour 613 est gardée à côté) : plus de « Envoyer », la phrase de l'app « Réponse enregistrée — tu peux encore la changer », les suppositions, l'alerte et la liste du soir en faits. Aucune capture ne déborde. Déposé au sas (captures-610/, maquette/, README de la maquette). CADRAGE-QCM.md complété (tour 614, ligne d'état). Rien écrit au hub, ni en production.
+
+Réponse mot pour mot, avec les quatre captures envoyées dans la conversation :
+
+526. **« Envoyer » est retiré.** Le choix est enregistré dès le clic, comme partout dans l'app : « ✅ Réponse enregistrée — tu peux encore la changer », jusqu'à « 🏁 Afficher leur bilan aux élèves ». L'alerte apparaît sur ta console dès que Michel clique la question, et disparaît s'il change d'avis. « C'est envoyé » disparaît aussi. Captures 610-6 et 610-7.
+
+527. **En suppositions, à la première personne, avec le prénom** : « ✅ Je pense que Julien a bien lu ma feuille », « 🤔 Je pense que Julien a peut-être mal lu ma feuille, à une question », « ❌ Je pense que Julien a mal lu ma feuille, à une question ». Une fois la question cliquée, c'est ta phrase : « ❌ Je pense que Julien a mal lu ma feuille à la question 1 ». La consigne suit : « 👇 Clique la question où tu penses que Julien a mal lu ta feuille. » Est souligné ce qui n'est pas mot pour mot de toi.
+
+528. **Ta console parle de même** : « ❌ DUVERNAY Michel pense qu'ABRIAL Julien a mal lu sa feuille à la question 1 », et ton suivi devient « Ce que chacun pense de la lecture de sa feuille ».
+
+529. **La ligne du ⚠, réécrite en faits, dans l'ordre où ils sont arrivés** : « Pendant la question, Michel a cliqué Venise, puis il a dit que sa feuille ne disait pas Venise. » ; « À la correction, Julien a lu Venise sur la feuille de Michel. » ; « ⚠ Les deux ne peuvent pas être vrais : la feuille de Michel tranche. » Cette ligne n'apparaît que quand les deux se contredisent. Capture 610-8, et 610-9 sur ton téléphone.
+
+530. **La liste du soir avait le même défaut, corrigé de même** : « TESSIER Anna — Q2 : a dit que sa feuille disait son clic, Madrid ; Rayan y a lu Madrid et Genève » ; « CARRÉ Tom — Q1 : n'a pas dit si sa feuille disait son clic ».
+
+531. **Les quatre captures refaites sont au sas** : https://github.com/siteflow-io/mjpc-chantier/blob/main/MANDATS/MAQUETTE-QCM-FLUX/README.md (section « Tours 610 à 614 »). Quand elles te vont, je refais la maquette entière en une fois.
+
+09/10/2026 16:09 MEMO
